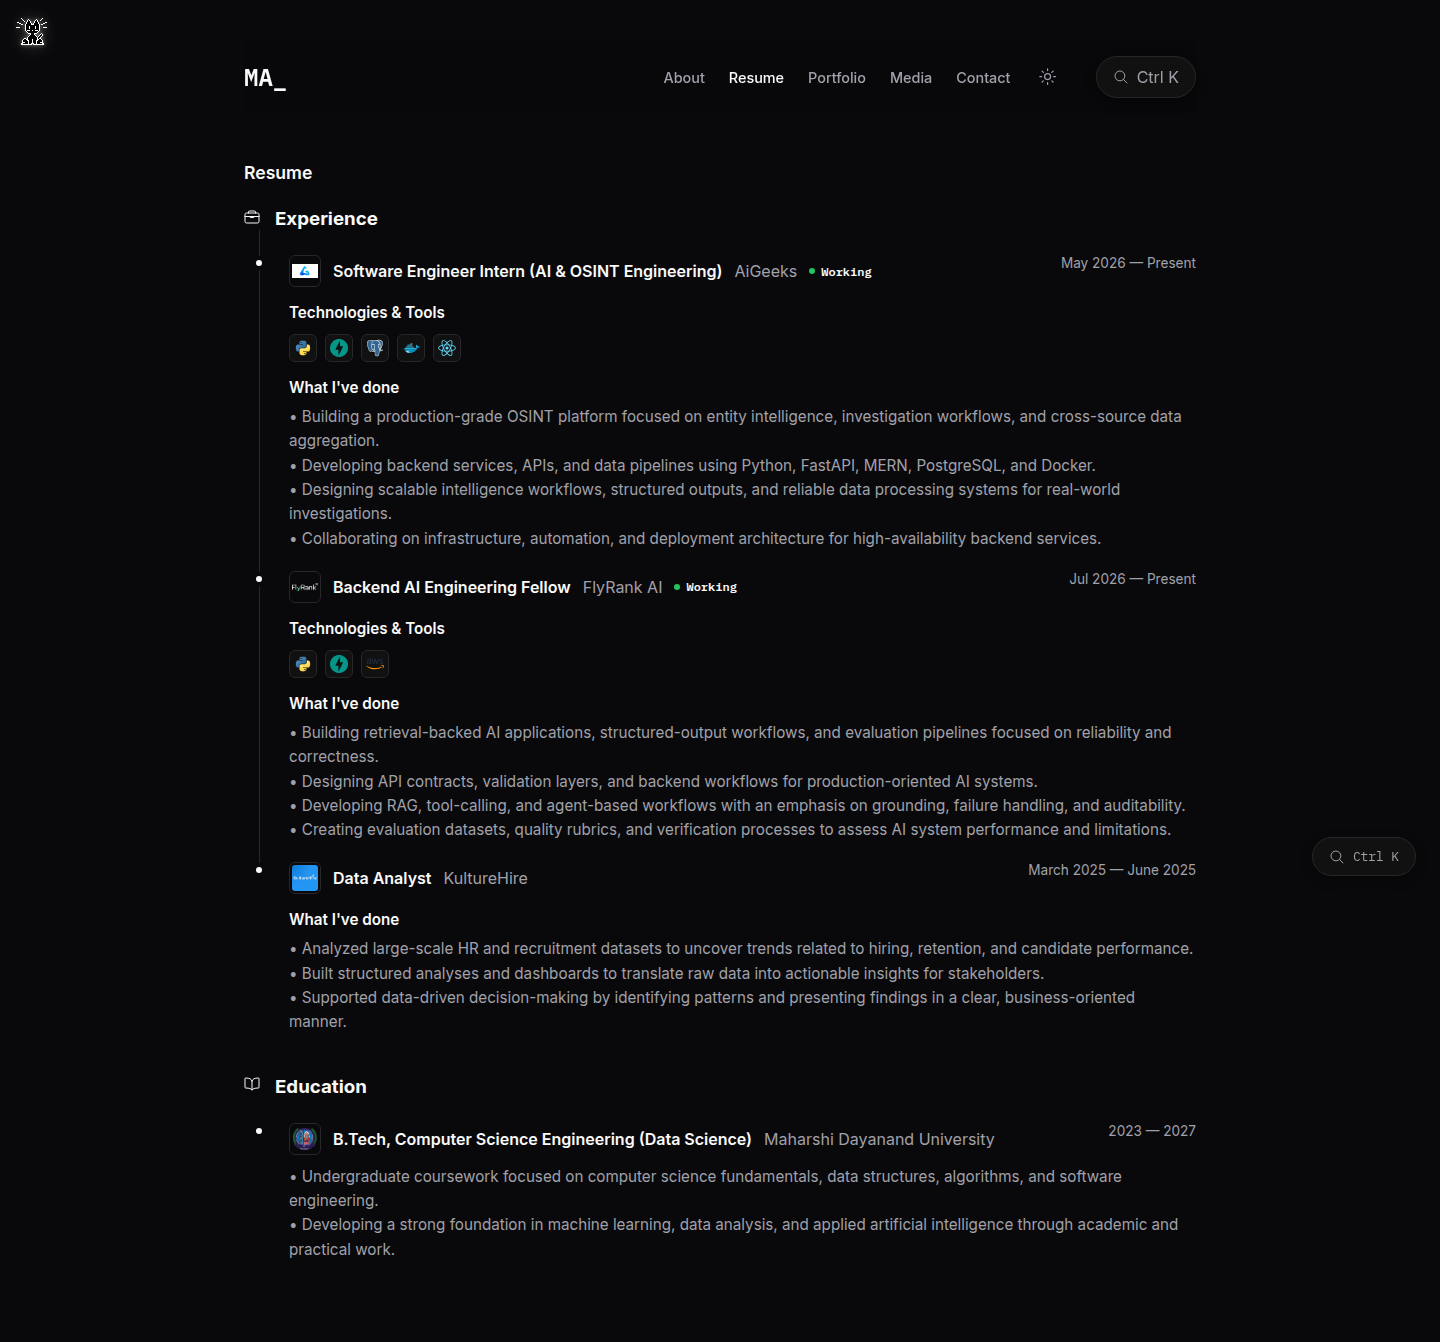
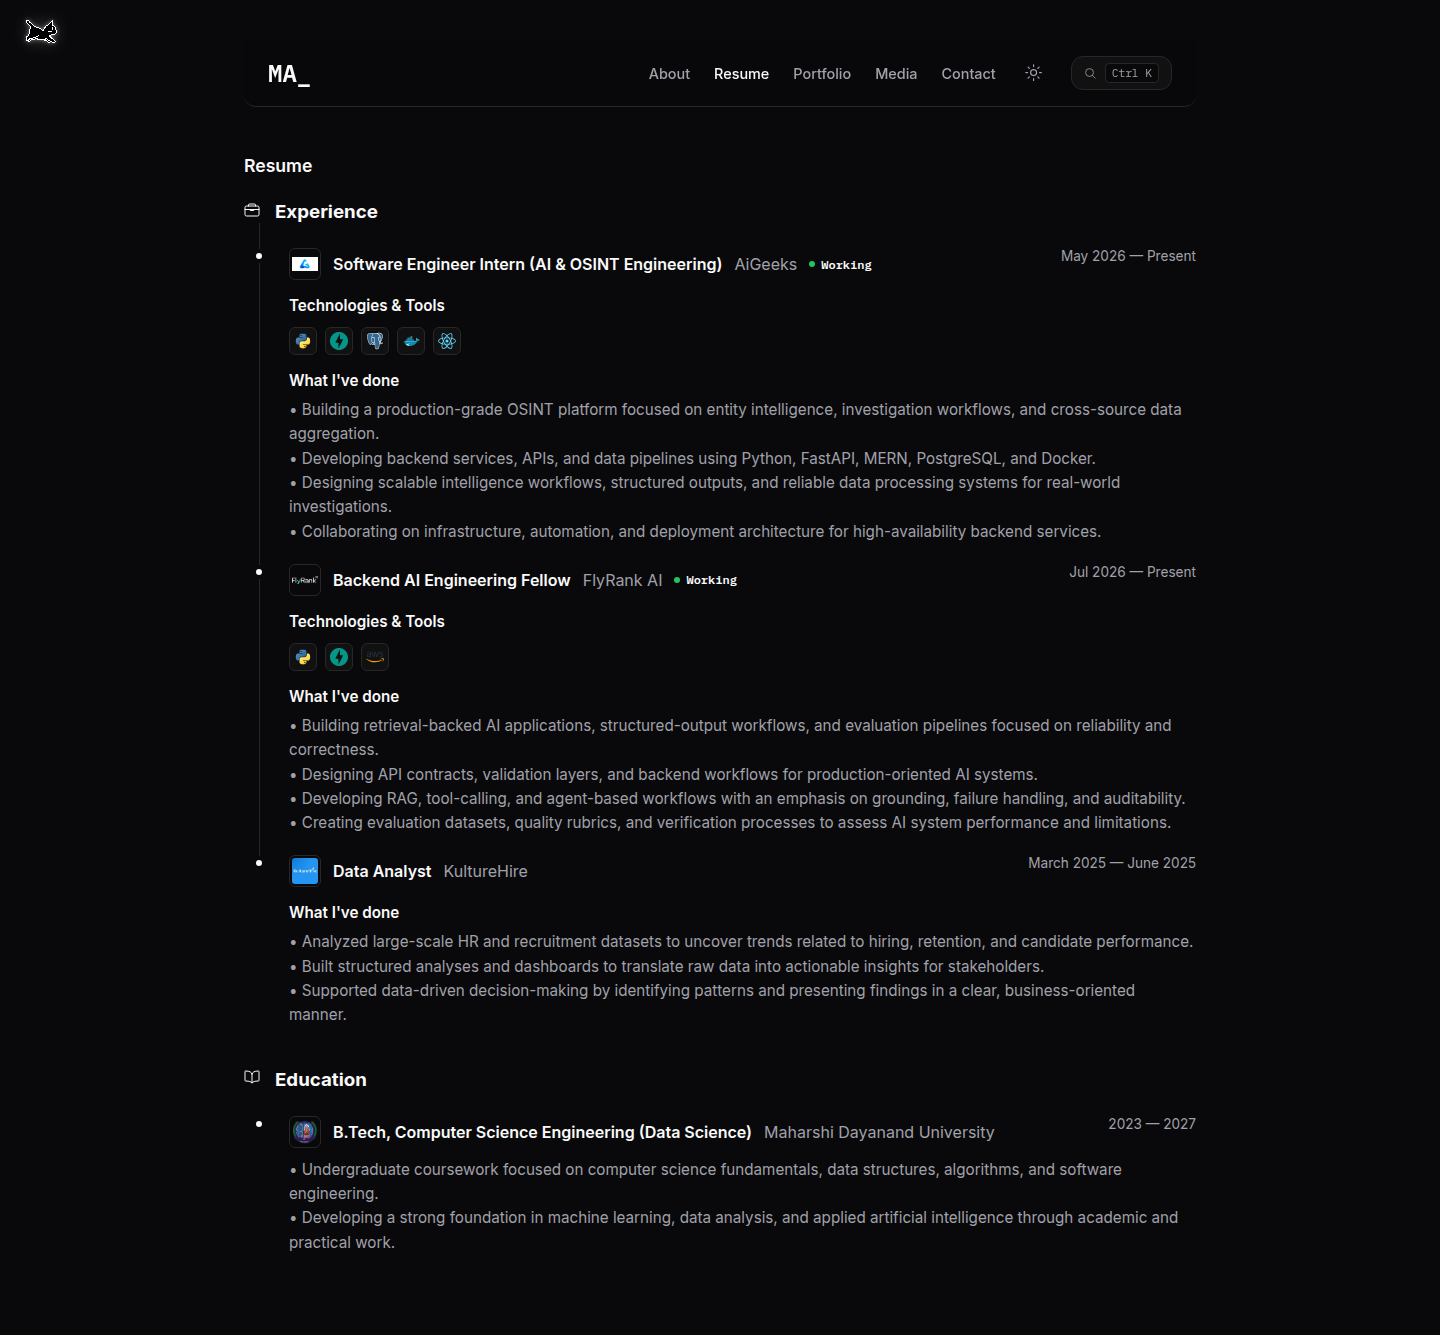
fix: resolve navbar search button duplication and styling issues

diff --git a/index.html b/index.html
@@ -35,7 +35,7 @@
           </button>
         </li>
         <li>
-          <button class="navbar-search-btn floating-search-btn" id="navbar-search-btn" aria-label="Search" style="position: static; margin-left: 10px;">
+          <button class="navbar-search-btn" id="navbar-search-btn" aria-label="Search">
             <ion-icon name="search-outline"></ion-icon>
             <span>Ctrl K</span>
           </button>
@@ -105,7 +105,7 @@
             </div>
             <div class="terminal-actions">
               <button class="btn btn-primary" onclick="document.querySelector('[data-nav-link]:nth-child(3)').click()">&gt; view projects</button>
-              <a href="#" class="btn btn-secondary">&gt; resume.pdf</a>
+              <a href="./assets/resume.pdf" download="resume.pdf" class="btn btn-secondary">&gt; resume.pdf</a>
             </div>
           </section>
         </div>
@@ -116,7 +116,7 @@
           <div class="working-cards-grid">
             
             <!-- AiGeeks Card -->
-            <div class="work-card expandable-card">
+            <div class="work-card expandable-card active">
               <div class="work-card-default">
                 <div class="work-card-header">
                   <img src="./assets/images/aigeeks.png" alt="AiGeeks Logo">
@@ -483,11 +483,6 @@
   </div>
 
   <!-- COMMAND PALETTE / SEARCH -->
-  <button class="floating-search-btn" id="navbar-search-btn" aria-label="Search">
-    <ion-icon name="search-outline"></ion-icon>
-    <span class="shortcut">Ctrl K</span>
-  </button>
-
   <div id="cmd-palette-overlay" class="cmd-overlay">
     <div class="cmd-modal">
       <div class="cmd-input-wrapper">

diff --git a/assets/css/style.css b/assets/css/style.css
@@ -126,7 +126,9 @@ img {
   position: sticky;
   top: 0;
   z-index: 100;
-  padding: 16px 0;
+  padding: 16px 24px;
+  border-bottom: 1px solid var(--border-color);
+  border-radius: 0 0 12px 12px;
 }
 
 .logo {
@@ -155,6 +157,34 @@ img {
 
 .nav-link.active {
   color: var(--accent-color);
+}
+
+/* Navbar Search Button */
+.navbar-search-btn {
+  display: flex;
+  align-items: center;
+  gap: 8px;
+  background: var(--surface-color);
+  border: 1px solid var(--border-color);
+  padding: 6px 12px;
+  border-radius: var(--border-radius);
+  color: var(--text-muted);
+  font-family: var(--font-mono);
+  font-size: 0.8rem;
+  transition: all var(--transition-fast);
+}
+
+.navbar-search-btn:hover {
+  background: var(--surface-alt);
+  color: var(--text-primary);
+}
+
+.navbar-search-btn span {
+  background: var(--bg-color);
+  padding: 2px 6px;
+  border-radius: 4px;
+  border: 1px solid var(--border-color);
+  font-size: 0.7rem;
 }
 
 /* Theme Toggle Button */
@@ -556,8 +586,7 @@ img {
   transition: all var(--transition-smooth);
 }
 
-.work-card:hover .work-card-expanded,
-.work-card:active .work-card-expanded {
+.work-card.active .work-card-expanded {
   max-height: 500px;
   opacity: 1;
   margin-top: 16px;

diff --git a/assets/js/script.js b/assets/js/script.js
@@ -222,3 +222,22 @@ if (quoteText && quoteAuthor) {
     }, 400); // Wait for transition
   }, 6000); // Rotate every 6 seconds
 }
+
+/* ---------- Experience Accordion ---------- */
+const workCards = document.querySelectorAll('.work-card');
+if (workCards.length > 0) {
+  workCards.forEach(card => {
+    card.addEventListener('mouseenter', () => {
+      if (window.innerWidth > 1024) {
+        workCards.forEach(c => c.classList.remove('active'));
+        card.classList.add('active');
+      }
+    });
+    card.addEventListener('click', () => {
+      if (window.innerWidth <= 1024) {
+        workCards.forEach(c => c.classList.remove('active'));
+        card.classList.add('active');
+      }
+    });
+  });
+}
